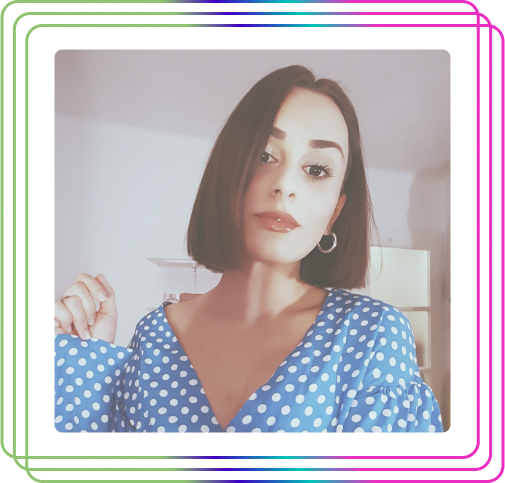
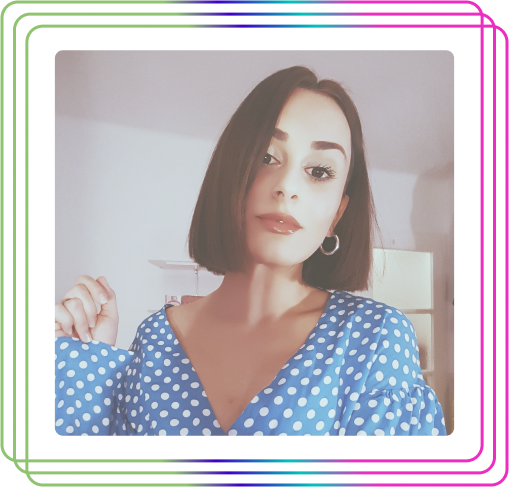
projects navigation

diff --git a/index.html b/index.html
@@ -37,11 +37,11 @@
                 --> 
                 <div class="center">
                     <div class="intro-overlay"></div>
-                    <h1>I DESIGN USER EXPERIENCE* <br> FOR YOU .</h1>
+                    <h1>I DESIGN USER EXPERIENCE* <br> FOR YOU.</h1>
                     <p>*Anastasia Chuguncalieva designs <br>
-                        interfaces, systems and products <br>
-                        that are easy to use, accesibly and enjoyable.</p>
-                    <a href="#" class="btn dark">Résumé</a>
+                        interfaces, systems and products that are <br>
+                        easy to use, accessible and enjoyable.</p>
+                    <a href="#" class="btn dark">Get in touch</a>
                     <div class="orb">
                         <div id="intro-canvas" class="intro-canvas"></div>
                         
@@ -72,10 +72,11 @@
                             <h4>Sugarwish -  “A choose your-own-candy adventure”</h4>
                         </div>
                         <div class="info-desc">
-                            <p>Responive mobile and web redesign of a receiver form</p>
+                            <p>Enhancing the UX part where the gift-receiving customer starts using the website/app.</p>
                         </div>
                     </div>
                 </div>
+                <!--
                 <div class="project-card">
                     <a href="">
                         <div class="img-hover-zoom">
@@ -91,6 +92,7 @@
                         </div>
                     </div>
                 </div>
+                -->
                 <div class="project-card">
                     <a href="">
                         <div class="img-hover-zoom">
@@ -102,7 +104,7 @@
                             <h4>Accessible and compact-Ljubljana Public Transport</h4>
                         </div>
                         <div class="info-desc">
-                            <p>Redesig of a mobile app</p>
+                            <p>Creating a better UX using the Design Sprint phases.</p>
                         </div>
                     </div>
                 </div>
@@ -120,7 +122,7 @@
                             <h4>Brainster Talent Market</h4>
                         </div>
                         <div class="info-desc">
-                            <p>Redesign of a website</p>
+                            <p>Creating a Talent Market website for Brainster and their HR department.   </p>
                         </div>
                     </div>
                 </div>
@@ -130,6 +132,7 @@
                             <img src="./images/firstpage/projects/ShuMiBerovo.png" alt="" />
                         </div> 
                     </a>
+                    <!--
                     <div class="info">
                         <div class="info-title">
                             <h4>Shu-Mi Berovo</h4>
@@ -139,6 +142,7 @@
                         </div>
                     </div>
                 </div>
+                -->
                 <div class="project-card">
                     <a href="">
                         <div class="img-hover-zoom">
@@ -150,7 +154,7 @@
                             <h4>Bak Logistics - “You imagine, we deliver. “</h4>
                         </div>
                         <div class="info-desc">
-                            <p>Building transport and logistics website from scratch</p>
+                            <p>Building transport and logistics website from scratch.</p>
                         </div>
                     </div>
                 </div>
@@ -166,7 +170,7 @@
         </div>
         <section class="aboutme-section">
             <div class="left">
-                <img src="./images/firstpage/about-me.png" alt="" />
+                <img src="./images/firstpage/about-me.png" onmouseover="this.src='./images/firstpage/about-me-hover.png'" onmouseout="this.src='./images/firstpage/about-me.png'" alt="" />
             </div>
             <div class="right">
                 <div class="info">
@@ -229,7 +233,7 @@
     </footer>
     <script src="https://cdnjs.cloudflare.com/ajax/libs/three.js/r124/three.min.js" integrity="sha512-jeYvJdyAYkpQCY/omvCYQo89qA5YxDW4JBT7COPsHT2sOAanwxkZRFeP9gc69b5reSDpZIoyCqZQZcWZkbB5Gw==" crossorigin="anonymous"></script>
     <script src="https://cdnjs.cloudflare.com/ajax/libs/animejs/3.2.1/anime.min.js"></script>
-    <script src="https://storage.borg.cloud/67@master/scripts/vendor/postprocessing.min.js?version=1609213054909"></script>
+    <script src="https://storage.borg.cloud/67@master/scripts/vendor/postprocessing.min.js?version=1609213054909"></script> 
     <script src="main.js"></script>
     
 </body>

diff --git a/style.css b/style.css
@@ -334,9 +334,20 @@ left:calc(51%);
 }
 
 .aboutme-section .left img{
-    width:100%;
+    width: 100%;
 }
 
+/*
+.aboutme-section .left {
+    width:100%;
+    background: url("./images/firstpage/about-me.png") no-repeat;
+}
+
+.aboutme-section .left:hover {
+    background: url("./images/firstpage/about-me-hover.png") no-repeat;
+    width:100%;
+}
+*/
 
 
 .aboutme-section .right .info{
@@ -355,10 +366,48 @@ left:calc(51%);
     font-size: 1.15vw;
 }
 
+
+.projects-navigation{
+    display:flex;
+    margin-top:80px;
+    border-top:1px solid;
+    gap:25%;
+}
+
+.projects-navigation .left{
+    width:37.5%;
+    display: flex;
+}
+
+
+
+.projects-navigation .right{
+    width:37.5%;
+    display: flex;
+    margin-top:68px;
+}
+
+.projects-navigation .right .next-project{
+    font-weight: 400;
+    font-size: 1.8vw;
+    line-height: 54px;
+    text-transform: uppercase;
+    
+}
+
+.projects-navigation .right .next-icon{
+    font-weight: 400;
+    font-size: 1.8vw;
+    line-height: 54px;
+    text-transform: uppercase;
+    margin-left:15px;
+    
+}
+
 /* Footer */
 
 footer{
-    margin-top:100px;
+    margin-top:65px;
 }
 
 footer ul{

diff --git a/projects/sugarwish.html b/projects/sugarwish.html
@@ -91,6 +91,21 @@
 
     <!-- End of Project section -->
 
+    <div class="wrapper">
+        <div class="projects-navigation">
+            <div class="left">
+                <div class="previous-project"></div>
+                <div class="previous-icon"></div>
+            </div>
+            <div class="right">
+                <div class="next-project">Next Project</div>
+                <div class="next-icon">></div>
+            </div>
+        </div>
+    </div>
+
+     <!-- End of Projects navigation -->
+
     <footer>
         <div class="wrapper footer-wrap">
             <div class="links-container">

diff --git a/main.js b/main.js
@@ -15,11 +15,10 @@ var canvasProps = {
   stop: false
 };
 
-var orbWidth = document.querySelector('.intro-overlay').offsetWidth + 100;
+var orbWidth = document.querySelector('.intro-overlay').offsetWidth + 150;
 console.log(document.querySelector('.hero-section').offsetHeight);
 
-// if(!mobile) {
-  // orbWidth *= window.devicePixelRatio;
+// if(!mobile) {  // orbWidth *= window.devicePixelRatio;
 // }
 
 // console.log(orbWidth);
